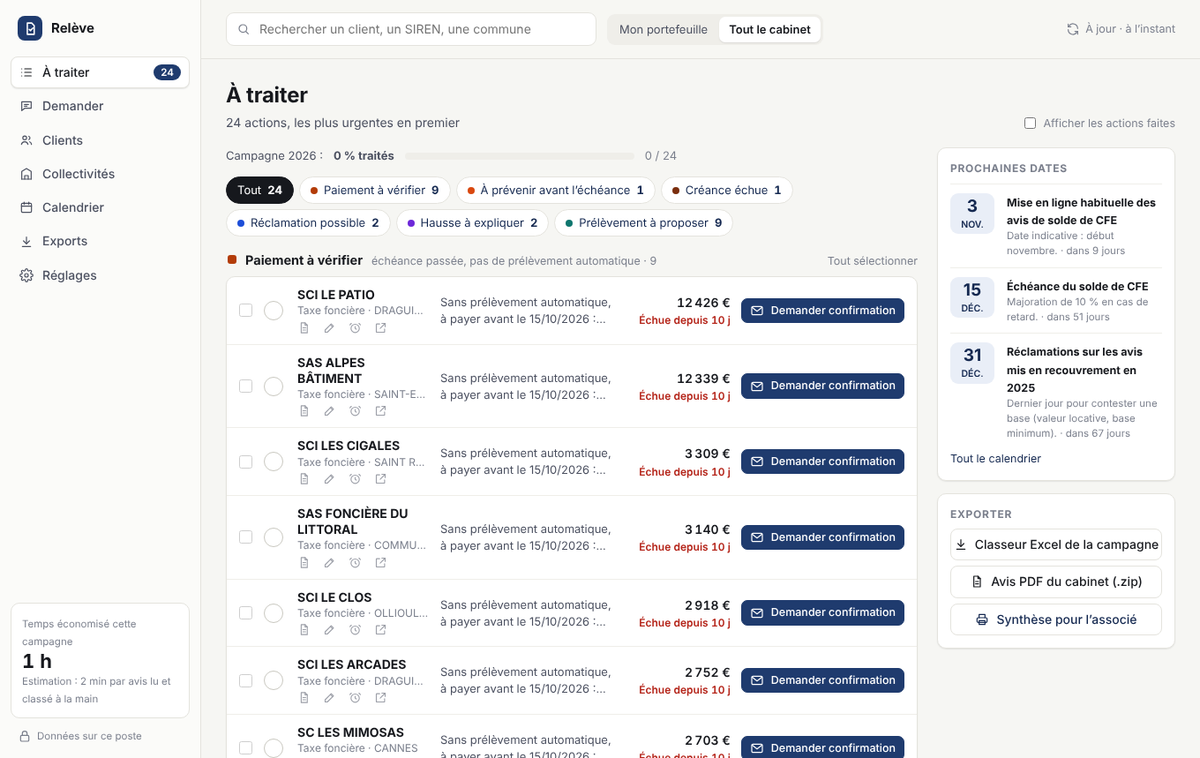
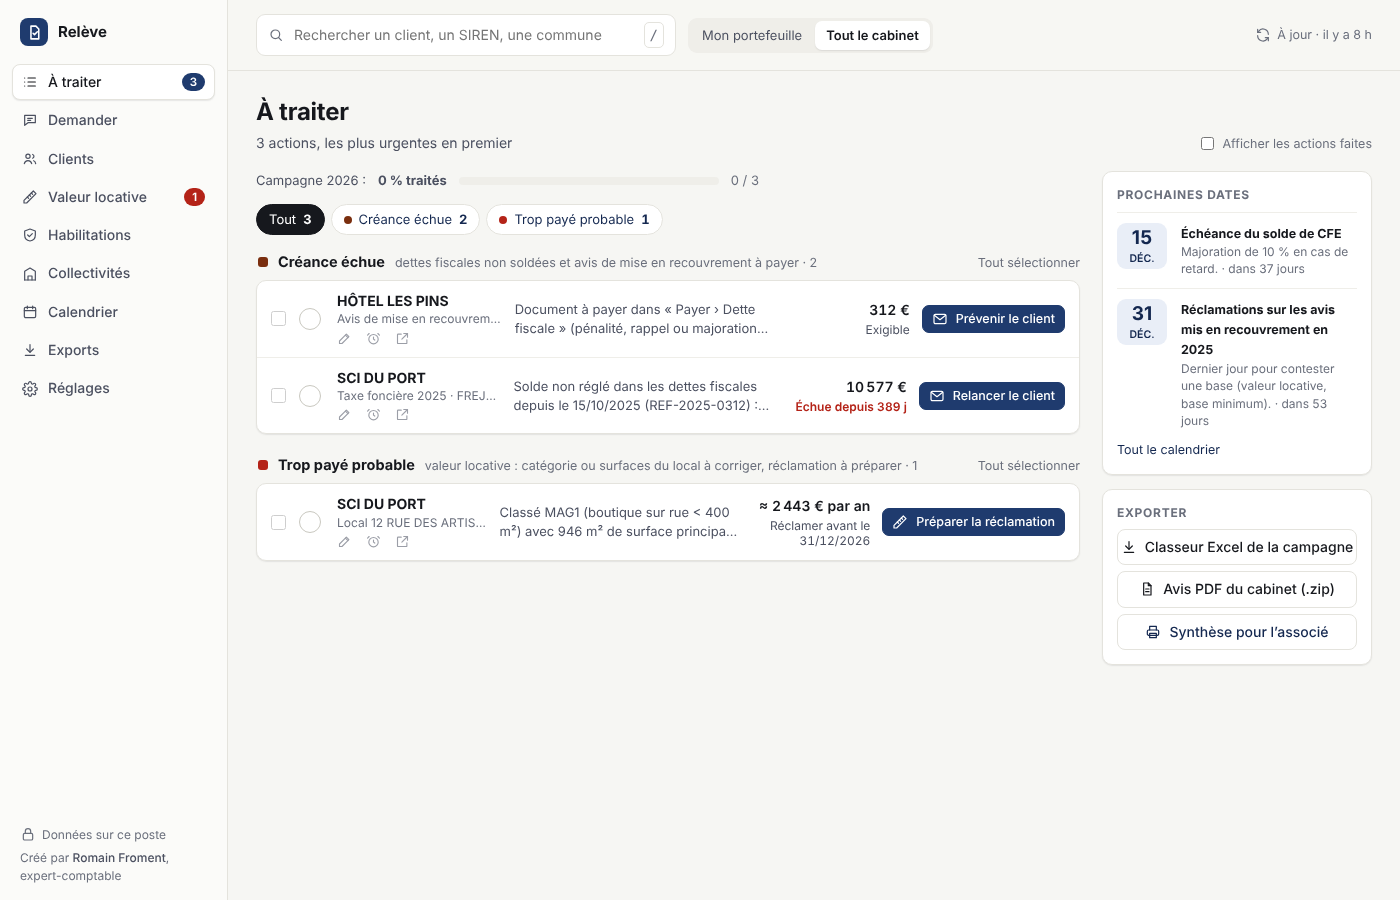
Site : page d'accueil 6.0 (résultat d'abord, démonstration animée du contrôle d'un local, quatre statuts, chiffres clés, apparitions au défilement, captures à jour sur données fictives)
Claude-Session: https://claude.ai/code/session_013NZYG2SyzkbnQKwYjAQPi1

diff --git a/site/index.html b/site/index.html
@@ -5,7 +5,7 @@
 <meta name="viewport" content="width=device-width, initial-scale=1">
 <meta name="robots" content="noindex, nofollow">
 <title>Relève</title>
-<meta name="description" content="Les avis de taxe foncière et de CFE de tous vos clients, lus dans votre espace professionnel impots.gouv et triés par urgence.">
+<meta name="description" content="Les avis de taxe foncière et de CFE de tous vos clients, lus dans votre espace professionnel impots.gouv et triés par urgence. Et pour chaque local professionnel, le calcul de l’administration refait au tarif officiel.">
 <link rel="icon" href="img/icon.png">
 <link rel="stylesheet" href="site.css">
 </head>
@@ -16,55 +16,108 @@
     <nav><a href="mode-emploi.html">Mode d’emploi</a><a href="valeur-locative.html">Valeur locative</a><a href="confidentialite.html">Confidentialité</a></nav>
   </header>
 
-  <div class="hero">
-    <div>
-      <h1>Les avis de taxe foncière et de CFE de tous vos clients, triés par urgence.</h1>
-      <p class="lead">Un bouton dans votre navigateur. Relève lit les avis dans votre espace professionnel impots.gouv, repère les paiements à vérifier et explique chaque hausse.</p>
+  <div class="hero hero2">
+    <div class="glow" aria-hidden="true"></div>
+    <div class="hero-txt">
+      <p class="eyebrow">Extension Chrome et Edge · gratuite · vos données restent sur votre poste</p>
+      <h1>Vos clients paient-ils la bonne taxe foncière ?</h1>
+      <p class="lead">Relève lit les avis de taxe foncière et de CFE dans votre espace professionnel impots.gouv, les trie par urgence, explique chaque hausse — et refait le calcul de l’administration pour chaque local professionnel afin de repérer ceux qui paient trop.</p>
       <div class="cta">
         <a class="btn primary" href="Releve.zip" download><svg viewBox="0 0 24 24" fill="none" stroke="currentColor" stroke-width="2" stroke-linecap="round" stroke-linejoin="round"><path d="M12 4v11"/><path d="M7 10.5l5 5 5-5"/><path d="M5 20h14"/></svg>Télécharger Relève</a>
         <a class="btn" href="mode-emploi.html">Mode d’emploi (3 min)</a>
       </div>
-      <p class="note">Conçu par un expert-comptable, pour les cabinets : <a href="https://www.linkedin.com/in/romain-froment-expert-comptable-var/" rel="noopener">Romain Froment</a>.<br>Version <span id="v">6.0.0</span> · Chrome ou Edge, Windows ou Mac · gratuit · <a href="mode-emploi.html#claude">fonctionne aussi avec Claude</a></p>
+      <p class="note">Conçu par un expert-comptable, pour les cabinets : <a href="https://www.linkedin.com/in/romain-froment-expert-comptable-var/" rel="noopener">Romain Froment</a>.<br>Version <span id="v">6.0.0</span> · Chrome ou Edge, Windows ou Mac · <a href="mode-emploi.html#claude">fonctionne aussi avec Claude</a></p>
     </div>
-    <div class="panel"><img src="img/volet-termine.png" alt="Volet Relève après une mise à jour : 15 actions par catégorie" width="380" height="620"></div>
+
+    <!-- Démonstration animée : un local, le calcul en escalier, le statut. Données fictives. -->
+    <div class="demo" id="demo" aria-label="Démonstration : un local professionnel contrôlé par Relève">
+      <div class="demo-hd"><span class="demo-dot"></span><span class="demo-dot"></span><span class="demo-dot"></span><span class="demo-title">Relève · Valeur locative</span><button class="demo-replay" id="replay" title="Rejouer">↻</button></div>
+      <div class="demo-body">
+        <div class="demo-local"><b>12 rue des Artisans</b> <span class="muted">Fréjus · parcelle BM 279</span><div class="muted small">boutique sur rue &lt; 400 m² <span class="pill">MAG1</span></div></div>
+        <div class="demo-steps">
+          <div class="st" style="--i:0"><span class="l">Surface pondérée</span><span class="v">1 135 m²</span><span class="s">946 m² + parking × 0,2</span></div>
+          <div class="st" style="--i:1"><span class="l">× tarif officiel</span><span class="v">207,90 €/m²</span><span class="s">MAG1, secteur 4</span></div>
+          <div class="st" style="--i:2"><span class="l">Base calculée</span><span class="v">21 232 €</span><span class="s">avec planchonnement</span></div>
+          <div class="st bad" style="--i:3"><span class="l">Base de l’avis</span><span class="v">21 220 €</span><span class="s">cohérente… mais</span></div>
+        </div>
+        <div class="demo-sig" style="--i:4"><b>946 m² en « boutique &lt; 400 m² »</b><span class="s">Au-delà de 400 m², le local relève de MAG4, dont le tarif est bien plus bas.</span></div>
+        <div class="demo-res" style="--i:5"><span class="pill bad">Trop payé probable</span><span class="big">≈ <span id="cnt" data-to="2443">0</span> € par an</span><span class="s">Réclamation prête à relire · délai 31/12</span></div>
+      </div>
+      <p class="demo-note">Données fictives. Le calcul réel est expliqué pas à pas sur la <a href="valeur-locative.html">page Valeur locative</a>.</p>
+    </div>
   </div>
 
-  <section style="padding-top:0">
-    <div class="card" style="border-color:var(--accent);background:var(--accent-bg)"><p style="font-size:16px;color:var(--ink)"><b>Nouveau dans Relève 6 — vos clients paient-ils la bonne taxe foncière ?</b> Pour chaque local professionnel, Relève lit la fiche déclarée dans « Gérer mes biens immobiliers », refait le calcul de l’administration avec la grille tarifaire du département (101 départements embarqués, planchonnement reconstitué depuis l’avis), vérifie au cadastre la parcelle et le bâti (photo aérienne IGN dans la fiche), puis donne un statut en français courant : <b>Trop payé probable</b> avec l’enjeu par an et la réclamation prête à relire, <b>Trop payé possible</b> avec la demande de relevé de propriété, <b>Question au client</b>, <b>Rien à signaler</b>. Les locaux à réclamer entrent dans votre liste de travail comme les autres actions ; un calcul en escalier, des questions à cocher et une visite guidée expliquent chaque écran à qui n’a jamais lu un avis. <a href="valeur-locative.html">La démarche expliquée</a> · <a href="mode-emploi.html#valeur-locative">mode d’emploi</a>.</p></div>
+  <section class="stats reveal" aria-label="Chiffres clés">
+    <div><b data-to="101">0</b><span>départements : grilles tarifaires embarquées</span></div>
+    <div><b data-to="38">0</b><span>catégories de locaux professionnels</span></div>
+    <div><b data-to="2">0</b><span>minutes de visite guidée pour comprendre l’écran</span></div>
+    <div><b>0</b><span>donnée client envoyée à un serveur</span></div>
   </section>
 
   <section style="padding-top:10px">
-    <h2>Ce que vous obtenez</h2>
-    <div class="grid3 g4" style="grid-template-columns:repeat(3,minmax(0,1fr))">
-      <div class="card"><span class="k"><svg viewBox="0 0 24 24" fill="none" stroke="currentColor" stroke-width="2" stroke-linecap="round"><path d="M9 6h11M9 12h11M9 18h11M4 6h.01M4 12h.01M4 18h.01"/></svg></span><h3>Une liste de travail</h3><p>Paiements à vérifier, clients à prévenir avant l’échéance, créances échues, bases à contrôler, hausses à expliquer. Les plus urgents en premier.</p></div>
-      <div class="card"><span class="k"><svg viewBox="0 0 24 24" fill="none" stroke="currentColor" stroke-width="2" stroke-linecap="round" stroke-linejoin="round"><path d="M4 21V8l8-5 8 5v13"/><path d="M9 21v-6h6v6"/></svg></span><h3>Chaque hausse expliquée</h3><p>Part des taux votés par la commune et l’intercommunalité, part des bases, biens nouvellement imposés. Avec une vue de toutes vos collectivités.</p></div>
-      <div class="card"><span class="k"><svg viewBox="0 0 24 24" fill="none" stroke="currentColor" stroke-width="2" stroke-linecap="round" stroke-linejoin="round"><rect x="3" y="5" width="18" height="14" rx="2"/><path d="M3.5 6.5l8.5 6.5 8.5-6.5"/></svg></span><h3>Le message au client prêt</h3><p>Un clic prépare le brouillon dans Outlook avec l’avis en pièce jointe. Vous relisez et envoyez. Excel, PDF et synthèse sur demande.</p></div>
-      <div class="card"><span class="k"><svg viewBox="0 0 24 24" fill="none" stroke="currentColor" stroke-width="2" stroke-linecap="round" stroke-linejoin="round"><path d="M3 17l14-14 4 4L7 21H3z"/><path d="M14 6l2 2M11 9l2 2M8 12l2 2"/></svg></span><h3>La valeur locative contrôlée</h3><p>Pour chaque local professionnel : surfaces et catégorie déclarées, base recalculée au tarif de la grille, planchonnement, écart avec l’avis, points à vérifier et gain estimé. Nouveau en version 6.</p></div>
-      <div class="card"><span class="k"><svg viewBox="0 0 24 24" fill="none" stroke="currentColor" stroke-width="2" stroke-linecap="round" stroke-linejoin="round"><path d="M4 5h16v11H9l-5 4z"/><path d="M8.5 9.5h7M8.5 12.5h4.5"/></svg></span><h3>Questions en un clic</h3><p>« À prévenir sous 7 jours », « Plus fortes hausses », filtres par commune ou collaborateur : la réponse est exacte et immédiate. Avec Claude, ses réponses s’affichent ici avec les vrais noms.</p></div>
+    <h2 class="reveal">Quatre statuts, écrits pour quelqu’un qui n’a jamais lu un avis</h2>
+    <p class="lead reveal">Chaque local professionnel reçoit un statut en français courant, avec l’enjeu par an et l’action à faire. Les locaux à réclamer entrent dans la liste de travail comme les autres actions.</p>
+    <div class="statuts">
+      <div class="card reveal" style="--i:0"><span class="pill bad">Trop payé probable</span><p>Un défaut précis de la fiche (catégorie, surface, classement) fait payer plus de 100 € de trop par an. Relève chiffre l’enjeu et rédige la réclamation.</p></div>
+      <div class="card reveal" style="--i:1"><span class="pill warn">Trop payé possible</span><p>L’avis dépasse le recalcul au tarif officiel sans que la fiche l’explique. Relève rédige la demande de relevé de propriété, qui tranche.</p></div>
+      <div class="card reveal" style="--i:2"><span class="pill acc">Question au client</span><p>Un point mérite confirmation avant de conclure : nombre de niveaux, usage réel, déclaration attendue. La question est prête à envoyer.</p></div>
+      <div class="card reveal" style="--i:3"><span class="pill ok">Rien à signaler</span><p>La base de l’avis est retrouvée au tarif officiel. Et quand l’avis est plus bas que la grille, Relève le dit : surtout ne rien réclamer.</p></div>
     </div>
   </section>
 
   <section style="padding-top:0">
-    <div class="shot"><img src="img/liste-travail.png" alt="Liste de travail Relève" width="1200" height="759" loading="lazy"></div>
-    <p class="note">Données fictives.</p>
+    <div class="shot reveal"><img src="img/fiche-local.png" alt="Fiche d’un local dans Relève : phrase simple, calcul en escalier, questions à poser au client, cadastre" width="1170" height="516" loading="lazy"></div>
+    <p class="note">La fiche d’un local : une phrase simple, le calcul en escalier, les questions à cocher, ce que dit le cadastre. Données fictives.</p>
   </section>
 
   <section style="padding-top:10px">
-    <h2>Vos données restent chez vous</h2>
-    <div class="trust">
-      <div><b>Rien ne quitte votre poste</b>Les avis et les analyses sont rangés dans votre navigateur. Aucun serveur ne les reçoit.</div>
+    <h2 class="reveal">Ce que vous obtenez</h2>
+    <div class="grid3 g4">
+      <div class="card reveal" style="--i:0"><span class="k"><svg viewBox="0 0 24 24" fill="none" stroke="currentColor" stroke-width="2" stroke-linecap="round"><path d="M9 6h11M9 12h11M9 18h11M4 6h.01M4 12h.01M4 18h.01"/></svg></span><h3>Une liste de travail</h3><p>Paiements à vérifier, clients à prévenir, créances échues, réclamations possibles, hausses à expliquer, trop payé probable : chaque action avec son montant, son échéance et son bouton.</p></div>
+      <div class="card reveal" style="--i:1"><span class="k"><svg viewBox="0 0 24 24" fill="none" stroke="currentColor" stroke-width="2" stroke-linecap="round" stroke-linejoin="round"><path d="M4 21V8l8-5 8 5v13"/><path d="M9 21v-6h6v6"/></svg></span><h3>Chaque hausse expliquée</h3><p>Taux votés, bases, biens nouveaux : la part de chacun, collectivité par collectivité, et un verdict en une phrase.</p></div>
+      <div class="card reveal" style="--i:2"><span class="k"><svg viewBox="0 0 24 24" fill="none" stroke="currentColor" stroke-width="2" stroke-linecap="round" stroke-linejoin="round"><path d="M3 17l14-14 4 4L7 21H3z"/><path d="M14 6l2 2M11 9l2 2M8 12l2 2"/></svg></span><h3>La valeur locative recalculée</h3><p>Fiche du local, grille tarifaire du département, cadastre et photo aérienne IGN : le calcul de l’administration refait, local par local.</p></div>
+      <div class="card reveal" style="--i:3"><span class="k"><svg viewBox="0 0 24 24" fill="none" stroke="currentColor" stroke-width="2" stroke-linecap="round" stroke-linejoin="round"><rect x="3" y="5" width="18" height="14" rx="2"/><path d="M3.5 6.5l8.5 6.5 8.5-6.5"/></svg></span><h3>Les messages prêts</h3><p>Message au client, réclamation, demande de relevé de propriété : rédigés avec les bons chiffres, à relire et envoyer vous-même.</p></div>
+      <div class="card reveal" style="--i:4"><span class="k"><svg viewBox="0 0 24 24" fill="none" stroke="currentColor" stroke-width="2" stroke-linecap="round" stroke-linejoin="round"><path d="M4 5h16v11H9l-5 4z"/><path d="M8.5 9.5h7M8.5 12.5h4.5"/></svg></span><h3>Questions en un clic</h3><p>« Qui paie trop de taxe foncière ? », « quels clients doivent payer avant le 15/12 ? » : la réponse vient des avis lus sur votre poste. Avec Claude aussi, si vous le souhaitez.</p></div>
+      <div class="card reveal" style="--i:5"><span class="k"><svg viewBox="0 0 24 24" fill="none" stroke="currentColor" stroke-width="2" stroke-linecap="round" stroke-linejoin="round"><path d="M12 3l8 4v5c0 5-3.5 8-8 9-4.5-1-8-4-8-9V7z"/><path d="M9 12l2 2 4-4"/></svg></span><h3>Lecture seule</h3><p>Vous vous connectez vous-même. Relève ne paie rien, ne déclare rien, n’envoie aucun message et ne modifie rien sur impots.gouv.</p></div>
+    </div>
+  </section>
+
+  <section style="padding-top:0">
+    <div class="shot reveal"><img src="img/liste-travail.png" alt="Liste de travail Relève" width="1400" height="900" loading="lazy"></div>
+    <p class="note">La liste de travail, les plus urgentes en premier. Données fictives.</p>
+  </section>
+
+  <section style="padding-top:10px">
+    <h2 class="reveal">Vos données restent chez vous</h2>
+    <div class="trust reveal">
+      <div><b>Rien ne quitte votre poste</b>Les avis et les analyses sont rangés dans votre navigateur. Aucun serveur ne les reçoit. Pour le cadastre, seule la référence de parcelle est transmise à l’IGN.</div>
       <div><b>Vous vous connectez vous-même</b>L’extension ne voit jamais vos identifiants et ne fonctionne que dans votre session.</div>
       <div><b>Lecture seule</b>Elle ne paie rien, n’envoie aucun message et ne modifie rien sur le site des impôts.</div>
     </div>
   </section>
 
   <section style="padding-top:10px">
-    <h2>Installer en 3 minutes</h2>
-    <p class="lead" style="font-size:17px">Téléchargez le fichier, décompressez-le dans Documents, puis ajoutez-le à Chrome ou Edge. Le mode d’emploi montre chaque clic.</p>
-    <div class="cta"><a class="btn primary" href="Releve.zip" download>Télécharger</a><a class="btn" href="mode-emploi.html">Voir le mode d’emploi</a></div>
+    <h2 class="reveal">Installer en 3 minutes</h2>
+    <p class="lead reveal" style="font-size:17px">Téléchargez le fichier, décompressez-le dans Documents, puis ajoutez-le à Chrome ou Edge. Le mode d’emploi montre chaque clic.</p>
+    <div class="cta reveal"><a class="btn primary" href="Releve.zip" download>Télécharger</a><a class="btn" href="mode-emploi.html">Voir le mode d’emploi</a></div>
   </section>
 </div>
-<footer><div class="wrap">Créé par <a href="https://www.linkedin.com/in/romain-froment-expert-comptable-var/" rel="noopener">Romain Froment</a>, expert-comptable · Relève · outil indépendant, non affilié à la DGFiP · <a href="https://github.com/rfroment85/releve">code source ouvert (EUPL 1.2)</a> · <a href="confidentialite.html">Confidentialité</a> · <a href="mode-emploi.html">Mode d’emploi</a></div></footer>
-<script>fetch('version.json',{cache:'no-store'}).then(r=>r.json()).then(d=>{document.getElementById('v').textContent=d.version}).catch(()=>{});</script>
+<footer><div class="wrap">Créé par <a href="https://www.linkedin.com/in/romain-froment-expert-comptable-var/" rel="noopener">Romain Froment</a>, expert-comptable · Relève · outil indépendant, non affilié à la DGFiP · <a href="https://github.com/rfroment85/releve">code source ouvert (EUPL 1.2)</a> · <a href="confidentialite.html">confidentialité</a></div></footer>
+<script>
+fetch('version.json',{cache:'no-store'}).then(r=>r.json()).then(d=>{document.getElementById('v').textContent=d.version}).catch(()=>{});
+(function(){
+  const calme = matchMedia('(prefers-reduced-motion: reduce)').matches;
+  // Compteurs qui montent
+  const count = (el) => { const fin = Number(el.dataset.to || 0); if (!fin || calme) { el.textContent = fin.toLocaleString('fr-FR'); return; } const t0 = performance.now(), d = 900; const f = (t) => { const p = Math.min(1, (t - t0) / d); el.textContent = Math.round(fin * (1 - Math.pow(1 - p, 3))).toLocaleString('fr-FR'); if (p < 1) requestAnimationFrame(f); }; requestAnimationFrame(f); };
+  // Démonstration : les marches apparaissent, puis le signal, puis le statut
+  const demo = document.getElementById('demo');
+  const play = () => { demo.classList.remove('play'); void demo.offsetWidth; demo.classList.add('play'); const c = document.getElementById('cnt'); c.textContent = '0'; setTimeout(() => count(c), calme ? 0 : 2600); };
+  document.getElementById('replay').onclick = play;
+  setTimeout(play, 300);
+  // Apparitions au défilement
+  const io = new IntersectionObserver((es) => es.forEach((e) => { if (!e.isIntersecting) return; e.target.classList.add('in'); e.target.querySelectorAll('[data-to]').forEach(count); io.unobserve(e.target); }), { threshold: .2 });
+  document.querySelectorAll('.reveal').forEach((el) => io.observe(el));
+})();
+</script>
 </body>
 </html>

diff --git a/site/site.css b/site/site.css
@@ -80,4 +80,44 @@ details p { margin: 8px 0 0; color: var(--ink2); }
   details { break-inside: avoid; } details:not([open]) > *:not(summary) { display: block; }
 }
 
-@media (min-width: 900px) { .grid3.g4 { grid-template-columns: repeat(2, 1fr); } }
+@media (min-width: 900px) { .grid3.g4 { grid-template-columns: repeat(3, minmax(0, 1fr)); } }
+
+/* Accueil 6.0 : héros vivant, démonstration, apparitions au défilement */
+.hero2 { position: relative; grid-template-columns: 1.05fr .95fr; gap: 40px; padding: 30px 0 30px; }
+.hero2 .glow { position: absolute; inset: -40px -10% auto; height: 420px; z-index: -1; pointer-events: none; background: radial-gradient(600px 300px at 20% 30%, rgba(31, 59, 110, .14), transparent 70%), radial-gradient(500px 280px at 80% 60%, rgba(43, 106, 67, .10), transparent 70%); filter: blur(10px); animation: glow 14s ease-in-out infinite alternate; }
+@keyframes glow { from { transform: translate3d(-2%, 0, 0) scale(1); } to { transform: translate3d(3%, 4%, 0) scale(1.06); } }
+.eyebrow { font-size: 13.5px; font-weight: 600; letter-spacing: .02em; color: var(--accent-d); text-transform: uppercase; margin: 0 0 6px; }
+.hero2 h1 { font-size: clamp(32px, 5.2vw, 52px); }
+.muted { color: var(--ink3); } .small { font-size: 13.5px; }
+.pill { display: inline-block; padding: 3px 10px; border-radius: 999px; font-size: 13px; font-weight: 600; background: var(--line2); color: var(--ink2); line-height: 1.5; }
+.pill.bad { background: #FDECEA; color: #B42318; } .pill.warn { background: var(--warn-bg); color: #9A6200; } .pill.ok { background: var(--ok-bg); color: var(--ok); } .pill.acc { background: var(--accent-bg); color: var(--accent-d); }
+.demo { background: #fff; border: 1px solid var(--line); border-radius: 16px; box-shadow: 0 22px 60px rgba(22, 24, 29, .14); overflow: hidden; font-size: 14px; }
+.demo-hd { display: flex; align-items: center; gap: 6px; padding: 10px 14px; background: #FBFBF9; border-bottom: 1px solid var(--line2); }
+.demo-dot { width: 10px; height: 10px; border-radius: 50%; background: #E4E3DD; } .demo-title { margin-left: 8px; font-size: 12.5px; color: var(--ink3); }
+.demo-replay { margin-left: auto; border: 1px solid var(--line); background: #fff; border-radius: 8px; width: 28px; height: 26px; cursor: pointer; color: var(--ink2); font-size: 15px; } .demo-replay:hover { border-color: #CFCEC6; }
+.demo-body { padding: 16px 18px 6px; }
+.demo-local b { font-size: 15px; } .demo-local .pill { font-size: 11.5px; padding: 1px 8px; }
+.demo-steps { display: grid; grid-template-columns: repeat(4, minmax(0, 1fr)); gap: 8px; margin-top: 12px; }
+.st { background: #FBFBF9; border: 1px solid var(--line2); border-radius: 10px; padding: 9px 10px; display: flex; flex-direction: column; gap: 1px; min-width: 0; }
+.st .l, .st .s { font-size: 11.5px; color: var(--ink3); line-height: 1.3; } .st .v { font-size: 16px; font-weight: 700; letter-spacing: -.01em; font-variant-numeric: tabular-nums; white-space: nowrap; }
+.st.bad { border-color: #B42318; background: #FDECEA; } .st.bad .v { color: #B42318; }
+.demo-sig { margin-top: 10px; padding: 9px 12px; border-left: 3px solid #B42318; background: #FDF6F5; border-radius: 0 8px 8px 0; display: flex; flex-direction: column; gap: 2px; } .demo-sig .s { font-size: 12.5px; color: var(--ink2); }
+.demo-res { display: flex; align-items: center; gap: 12px; flex-wrap: wrap; margin-top: 12px; padding: 12px 14px; background: var(--bg); border: 1px solid var(--line2); border-radius: 10px; }
+.demo-res .big { font-size: 22px; font-weight: 700; color: #B42318; font-variant-numeric: tabular-nums; letter-spacing: -.01em; } .demo-res .s { font-size: 12.5px; color: var(--ink3); flex-basis: 100%; }
+.demo-note { margin: 0; padding: 8px 18px 12px; font-size: 12.5px; color: var(--ink3); }
+/* Lecture de la démonstration : chaque élément arrive à son tour */
+.demo .st, .demo .demo-sig, .demo .demo-res { opacity: 0; transform: translateY(6px); }
+.demo.play .st, .demo.play .demo-sig, .demo.play .demo-res { animation: demo-in .45s cubic-bezier(.2, .7, .2, 1) both; animation-delay: calc(.25s + var(--i, 0) * .45s); }
+.demo.play .demo-res .pill.bad { animation: demo-pulse 1.2s ease-out 1; animation-delay: calc(.25s + 5 * .45s + .3s); }
+@keyframes demo-in { to { opacity: 1; transform: none; } }
+@keyframes demo-pulse { 0% { box-shadow: 0 0 0 0 rgba(180, 35, 24, .45); } 100% { box-shadow: 0 0 0 12px rgba(180, 35, 24, 0); } }
+.stats { display: grid; grid-template-columns: repeat(4, minmax(0, 1fr)); gap: 14px; padding: 10px 0 36px; }
+.stats div { background: var(--card); border: 1px solid var(--line); border-radius: 14px; padding: 16px 18px; display: flex; flex-direction: column; gap: 2px; }
+.stats b { font-size: 30px; letter-spacing: -.02em; color: var(--accent-d); font-variant-numeric: tabular-nums; line-height: 1.1; } .stats span { font-size: 14px; color: var(--ink2); }
+.statuts { display: grid; grid-template-columns: repeat(4, minmax(0, 1fr)); gap: 14px; } .statuts .card .pill { margin-bottom: 10px; }
+.g4 { grid-template-columns: repeat(3, minmax(0, 1fr)); }
+.reveal { opacity: 0; transform: translateY(14px); transition: opacity .55s cubic-bezier(.2, .7, .2, 1), transform .55s cubic-bezier(.2, .7, .2, 1); transition-delay: calc(var(--i, 0) * 70ms); }
+.reveal.in { opacity: 1; transform: none; }
+@media (max-width: 900px) { .hero2 { grid-template-columns: 1fr; } .stats, .statuts { grid-template-columns: repeat(2, minmax(0, 1fr)); } .g4 { grid-template-columns: 1fr 1fr; } .demo-steps { grid-template-columns: repeat(2, minmax(0, 1fr)); } }
+@media (max-width: 560px) { .stats, .statuts, .g4, .trust { grid-template-columns: 1fr; } }
+@media (prefers-reduced-motion: reduce) { .hero2 .glow { animation: none; } .reveal { opacity: 1; transform: none; transition: none; } .demo .st, .demo .demo-sig, .demo .demo-res { opacity: 1; transform: none; animation: none !important; } }
